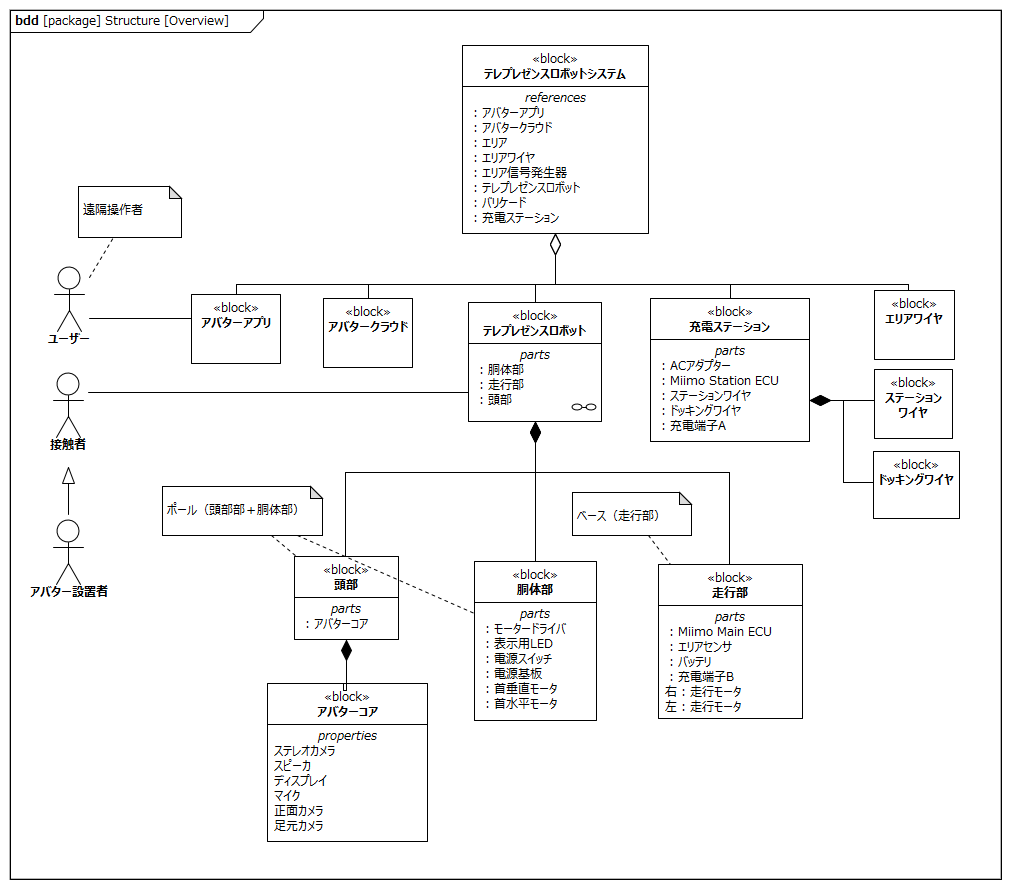
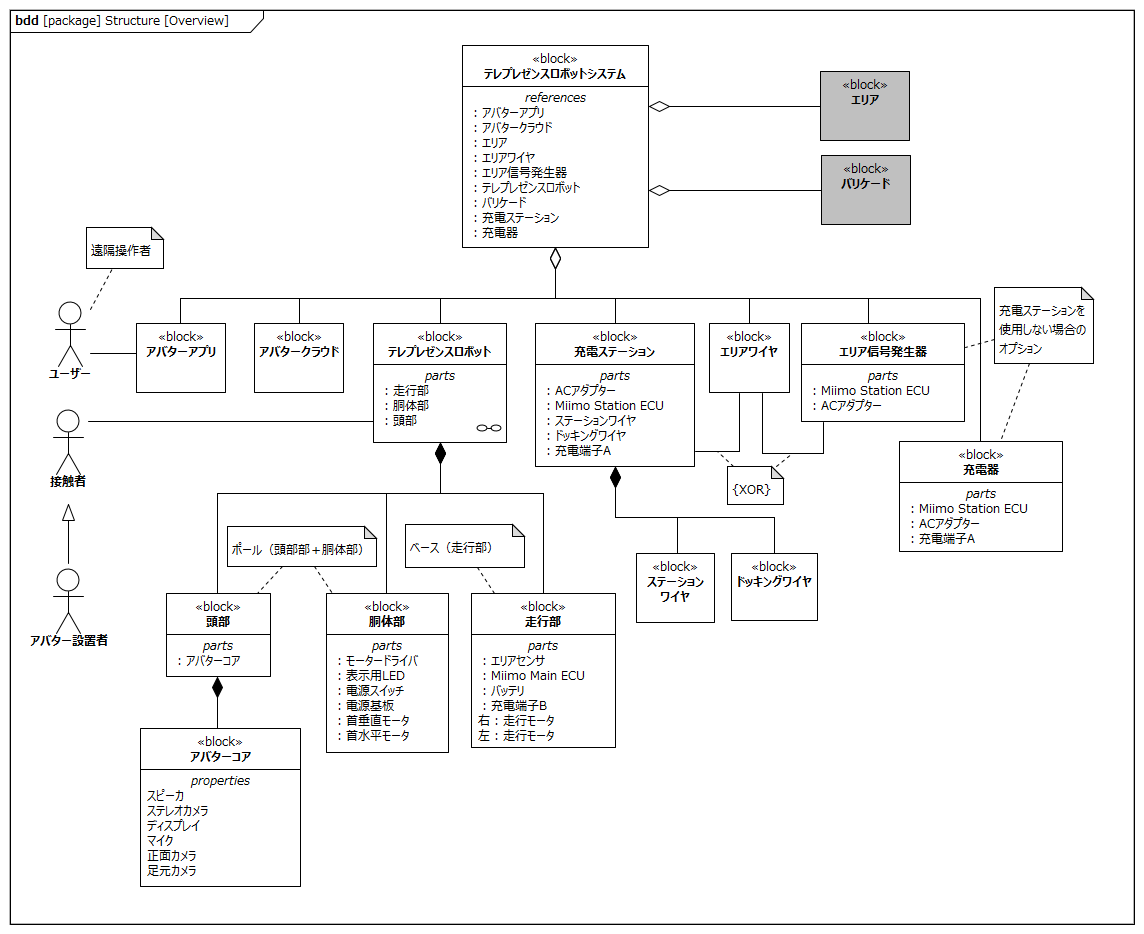
update system stratucure

diff --git a/requirements/requirement.md b/requirements/requirement.md
@@ -96,7 +96,9 @@ date: 2022年1月31日
 
 # システムの構成
 
-テレプレゼンスロボットシステムは、アバターアプリ（クライアント）、アバタークラウド（サーバー）、テレプレゼンスロボット本体および充電ステーション、エリアワイヤ、ステーションワイヤ、ドッキングワイヤにより構成される。
+テレプレゼンスロボットシステムは、アバターアプリ（クライアント）、アバタークラウド（サーバー）、テレプレゼンスロボット本体および充電ステーション、エリアワイヤにより構成される。
+
+エリア信号発生器および充電器は充電ステーションが設置できない環境で使用する際のオプションとしてシステムの構成に含まれる。また、エリア、バリケードについてはシステムの構成要素の一部ではあるが開発の対象ではないため本文書における分析の対象からは除外する。
 
 ユーザー（遠隔操作者）およびアバター設置者はアバターアプリを介して、テレプレゼンスロボットの遠隔操作、テレプレゼンスロボットの先にいる接触者とのコミュニケーションを行うことができる。
 
